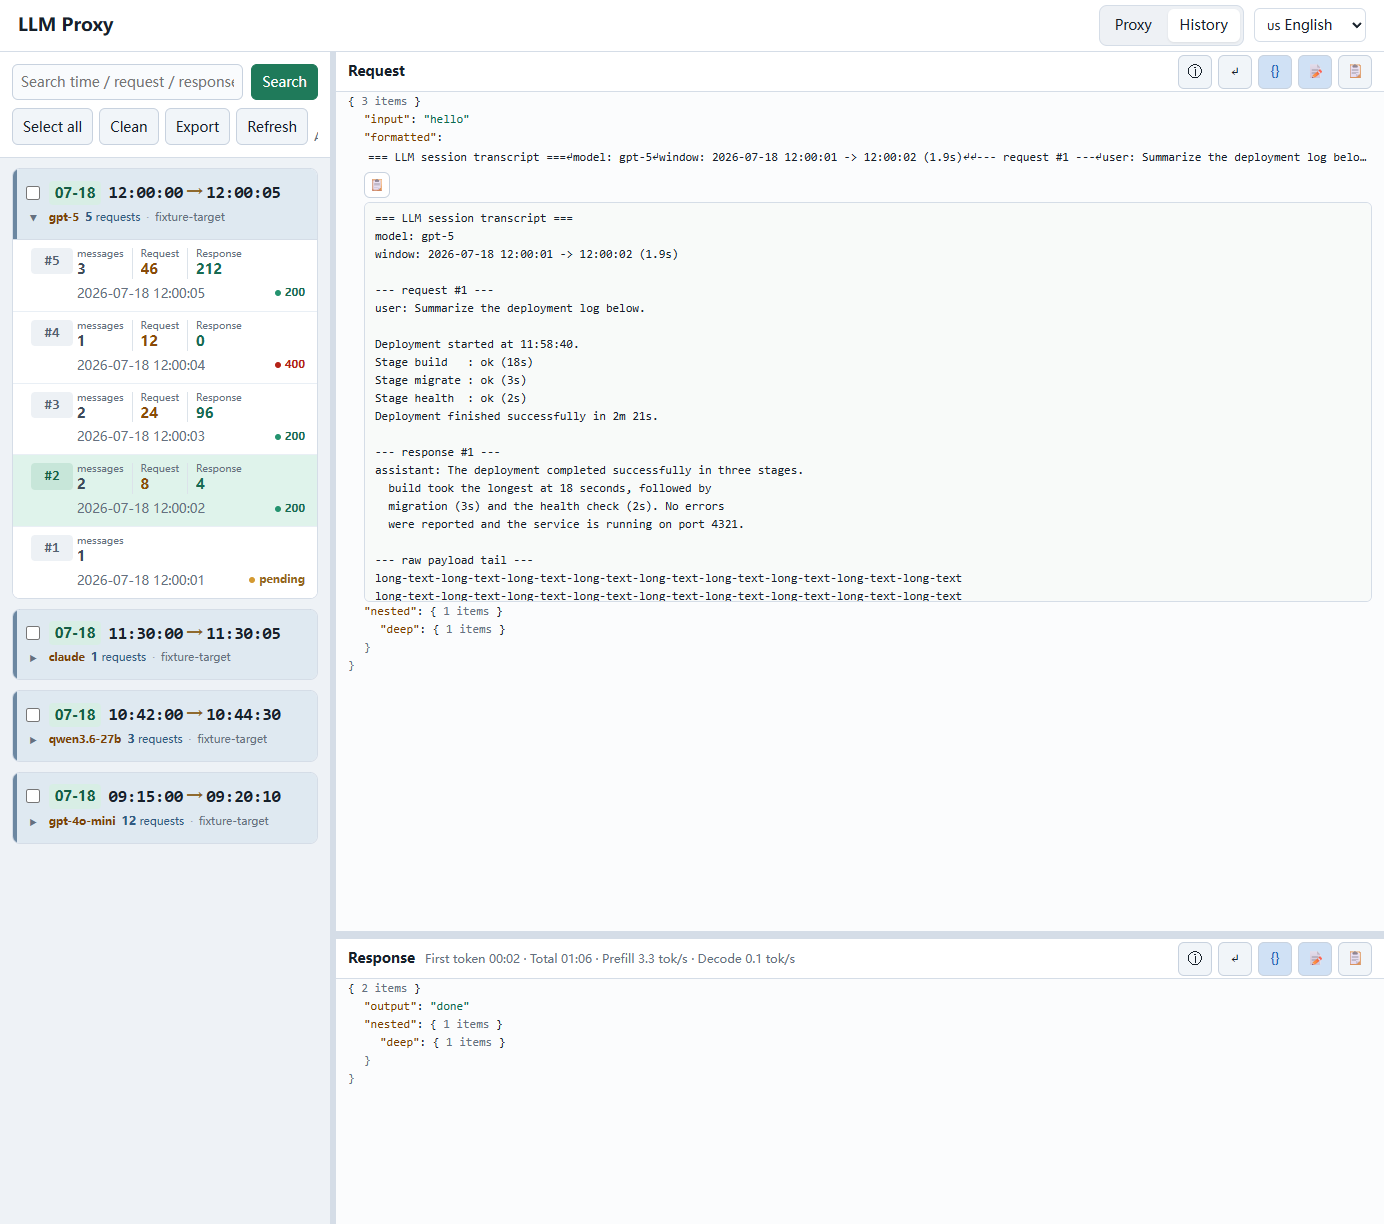
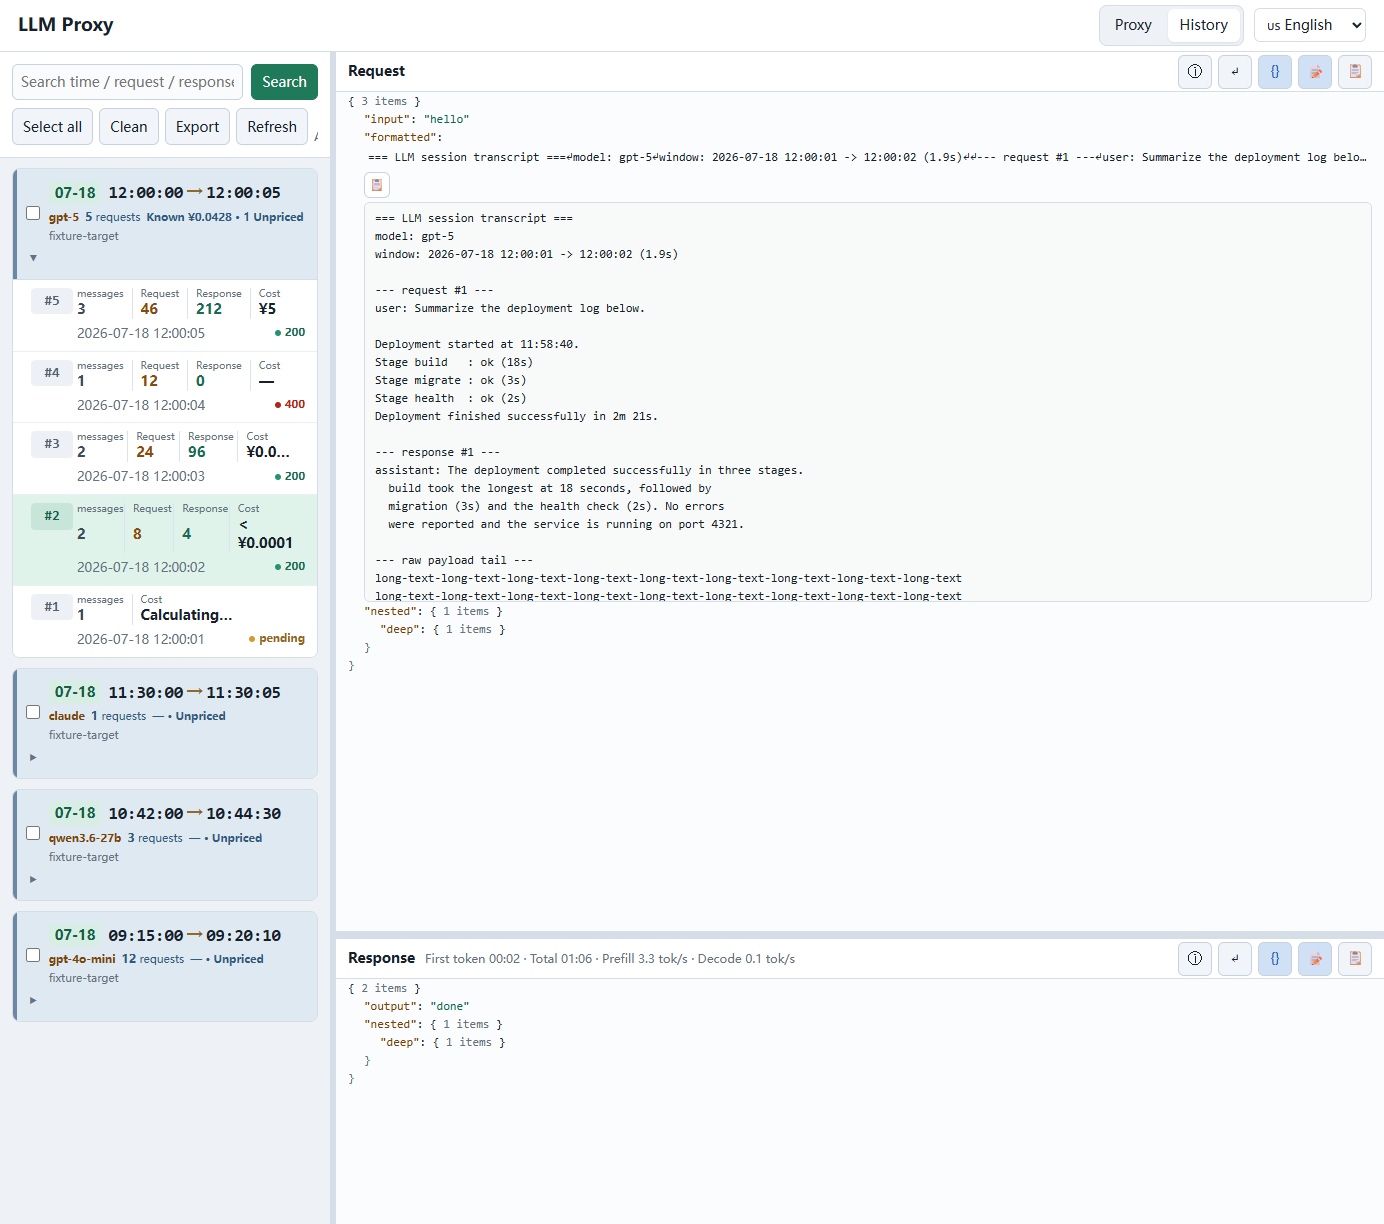
feat(pricing): [PRICE-10] format pricing in history lists

Changed region(s): [[0.0, 0.1552, 0.2486, 0.8382]]

diff --git a/src/admin/static/app.js b/src/admin/static/app.js
@@ -77,6 +77,11 @@ const translations = {
     noModelPrices: "尚未配置模型价格，请求费用将显示为未计价",
     testPriceModel: "测试模型名",
     priceNoMatch: "未命中价格规则",
+    cost: "费用",
+    totalCost: "总费用",
+    knownCost: "已知",
+    calculating: "计算中…",
+    unpriced: "未计价",
     moreTargetOptions: "更多配置",
     lessTargetOptions: "收起配置",
     delete: "删除",
@@ -175,6 +180,11 @@ const translations = {
     noModelPrices: "No model prices configured; request cost will be unpriced",
     testPriceModel: "Test model",
     priceNoMatch: "No price rule matched",
+    cost: "Cost",
+    totalCost: "Total cost",
+    knownCost: "Known",
+    calculating: "Calculating…",
+    unpriced: "Unpriced",
     modelMappings:
       "Model mapping, one per line: listened model => upstream model; * is supported as a wildcard",
     moreTargetOptions: "More settings",
@@ -325,10 +335,42 @@ function logGroupTimeHtml(group) {
 }
 function logGroupFactsHtml(group) {
   return `<span class="log-group-facts">
-    ${group.model ? `<span class="log-model">${escapeHtml(group.model)}</span>` : ""}
-    <span class="log-request-count"><strong>${escapeHtml(group.request_count ?? 0)}</strong> ${escapeHtml(t("requests"))}</span>
-    ${group.target ? `<span class="log-target" title="${escapeHtml(group.target)}">${escapeHtml(group.target)}</span>` : ""}
+    <span class="log-group-fact-line">${group.model ? `<span class="log-model">${escapeHtml(group.model)}</span>` : ""}<span class="log-request-count"><strong>${escapeHtml(group.request_count ?? 0)}</strong> ${escapeHtml(t("requests"))}</span><button type="button" class="log-cost" data-group-cost="${escapeHtml(group.id || "")}">${escapeHtml(formatGroupCost(group.cost))}</button></span>
+    <span class="log-group-fact-line log-target" title="${escapeHtml(group.target || "")}">${escapeHtml(group.target || "—")}</span>
   </span>`;
+}
+function formatCurrencyAmount(amount) {
+  if (amount === null || amount === undefined || amount === "") return "—";
+  const text = String(amount);
+  const [wholeRaw, fractionRaw = ""] = text.split(".");
+  const whole = wholeRaw || "0";
+  const next = (fractionRaw.slice(0, 5) + "00000").slice(0, 5);
+  let rounded = BigInt(whole + next.slice(0, 4)) + BigInt(next[4] >= "5" ? 1 : 0);
+  const scale = 10_000n;
+  const integer = rounded / scale;
+  const fraction = (rounded % scale).toString().padStart(4, "0").replace(/0+$/, "");
+  if (integer === 0n && fraction === "" && !/^0+(?:\.0+)?$/.test(text)) return "< ¥0.0001";
+  return `¥${integer}${fraction ? `.${fraction}` : ""}`;
+}
+function formatRequestCost(cost) {
+  if (!cost || cost.status === "unpriced") return "—";
+  if (cost.status === "pending") return t("calculating");
+  return formatCurrencyAmount(cost.amount);
+}
+function formatGroupCost(cost) {
+  if (!cost) return `— · ${t("unpriced")}`;
+  if (cost.priced_request_count === 0 && cost.pending_request_count > 0) return t("calculating");
+  if (cost.priced_request_count === 0) return `— · ${t("unpriced")}`;
+  const prefix =
+    cost.unpriced_request_count || cost.pending_request_count
+      ? `${t("knownCost")} `
+      : `${t("totalCost")} `;
+  const suffix = cost.unpriced_request_count
+    ? ` · ${cost.unpriced_request_count} ${t("unpriced")}`
+    : cost.pending_request_count
+      ? ` · ${cost.pending_request_count} ${t("pending")}`
+      : "";
+  return `${prefix}${formatCurrencyAmount(cost.known_amount)}${suffix}`;
 }
 function logMetricHtml(className, label, value, title = label) {
   return `<span class="log-metric ${className}" title="${escapeHtml(title)}">
@@ -360,6 +402,7 @@ function logItemMetricsHtml(item) {
       ),
     );
   }
+  metrics.push(logMetricHtml("cost", t("cost"), formatRequestCost(item.cost), t("cost")));
   return (
     metrics.join("") ||
     `<span class="log-item-empty">${escapeHtml(formatStatus(item.status))}</span>`
@@ -859,12 +902,16 @@ function renderLogs() {
       .map(
         (group) => `
     <section class="log-group">
-      <button class="log-group-head" data-group-id="${escapeHtml(group.id || "")}">
+      <div class="log-group-head">
         <input class="log-group-select" type="checkbox" data-select-group="${escapeHtml(group.id || "")}" title="${escapeHtml(t("selectLogGroup"))}" ${state.selectedLogGroups[group.id] ? "checked" : ""}>
-        <span class="log-group-caret">${!state.collapsedGroups[group.id] ? "▸" : "▾"}</span>
-        ${logGroupTimeHtml(group)}
-        ${logGroupFactsHtml(group)}
-      </button>
+        <button type="button" class="log-group-toggle" data-group-id="${escapeHtml(group.id || "")}" aria-expanded="${state.collapsedGroups[group.id] ? "true" : "false"}" aria-label="${escapeHtml(t("task"))}">
+          <span class="log-group-caret" aria-hidden="true">${!state.collapsedGroups[group.id] ? "▸" : "▾"}</span>
+        </button>
+        <div class="log-group-summary">
+          ${logGroupTimeHtml(group)}
+          ${logGroupFactsHtml(group)}
+        </div>
+      </div>
       ${
         !state.collapsedGroups[group.id]
           ? ""

diff --git a/test-node/ui/admin-ui.test.ts b/test-node/ui/admin-ui.test.ts
@@ -149,9 +149,16 @@ beforeAll(async () => {
                 id: "task-one",
                 started_at: "2026-07-18 12:00:00",
                 last_activity_at: "2026-07-18 12:00:05",
-                model: "gpt-5",
-                request_count: 5,
-                target: "fixture-target",
+              model: "gpt-5",
+              request_count: 5,
+              target: "fixture-target",
+              cost: {
+                currency: "CNY" as const,
+                known_amount: "0.042750000",
+                priced_request_count: 3,
+                unpriced_request_count: 1,
+                pending_request_count: 1,
+              },
               },
               {
                 id: "task-needle",
@@ -262,6 +269,7 @@ beforeAll(async () => {
               request_token_count: 46,
               response_token_count: 212,
               target: "fixture-target",
+              cost: { currency: "CNY", amount: "5", status: "priced", reason: null },
             },
             {
               id: "record-four",
@@ -275,6 +283,7 @@ beforeAll(async () => {
               request_token_count: 12,
               response_token_count: 0,
               target: "fixture-target",
+              cost: { currency: "CNY", amount: null, status: "unpriced", reason: "missing_usage" },
             },
             {
               id: "record-three",
@@ -288,6 +297,7 @@ beforeAll(async () => {
               request_token_count: 24,
               response_token_count: 96,
               target: "fixture-target",
+              cost: { currency: "CNY", amount: "0.041125", status: "priced", reason: null },
             },
             {
               id: "record-two",
@@ -301,6 +311,7 @@ beforeAll(async () => {
               request_token_count: 8,
               response_token_count: 4,
               target: "fixture-target",
+              cost: { currency: "CNY", amount: "0.00001", status: "priced", reason: null },
             },
             {
               id: "record-one",
@@ -314,6 +325,7 @@ beforeAll(async () => {
               request_token_count: null,
               response_token_count: null,
               target: "fixture-target",
+              cost: { currency: "CNY", amount: null, status: "pending", reason: null },
             },
           ],
         };
@@ -902,6 +914,56 @@ describe("admin UI history page", { timeout: UI_TEST_TIMEOUT_MS }, () => {
     await expectPage(
       page.locator('[data-log-id="record-one"] .messages .log-metric-value'),
     ).toHaveText("1");
+  });
+
+  it("formats pricing precisely and keeps the two-level history layout compact", async () => {
+    await loadAdminPage();
+    await Promise.all([
+      page.waitForResponse((response) => response.url().includes("/api/logs?")),
+      page.locator('[data-tab="logs"]').click(),
+    ]);
+
+    await expect(
+      page.evaluate((amounts) => {
+        const formatter = (window as unknown as Window & {
+          formatCurrencyAmount: (amount: string | null) => string;
+        }).formatCurrencyAmount;
+        return amounts.map((amount) => formatter(amount));
+      }, ["5", "0.03", "0.041125", "0.042750", "0.00001", "0", null]),
+    ).resolves.toEqual(["¥5", "¥0.03", "¥0.0411", "¥0.0428", "< ¥0.0001", "¥0", "—"]);
+
+    const group = page.locator(".log-group").first();
+    const summary = group.locator(".log-group-summary");
+    await expectPage(summary.locator(".log-group-time")).toHaveCount(1);
+    await expectPage(summary.locator(".log-group-fact-line")).toHaveCount(2);
+    await expectPage(summary.locator(".log-group-fact-line").first()).toContainText(
+      "gpt-5",
+    );
+    await expectPage(summary.locator(".log-group-fact-line").first()).toContainText(
+      "5 requests",
+    );
+    await expectPage(summary.locator("[data-group-cost]")).toHaveText(
+      "Known ¥0.0428 · 1 Unpriced",
+    );
+    await expectPage(summary.locator(".log-target")).toHaveText("fixture-target");
+    await expectPage(group.locator("button button")).toHaveCount(0);
+
+    await Promise.all([
+      page.waitForResponse((response) => response.url().includes("/api/log-groups/task-one/logs")),
+      group.locator('[data-group-id="task-one"]').click(),
+    ]);
+    const priced = page.locator('[data-log-id="record-three"]');
+    await expectPage(priced.locator(".cost .log-metric-label")).toHaveText("Cost");
+    await expectPage(priced.locator(".cost .log-metric-value")).toHaveText("¥0.0411");
+    await expectPage(page.locator('[data-log-id="record-two"] .cost .log-metric-value')).toHaveText(
+      "< ¥0.0001",
+    );
+    await expectPage(page.locator('[data-log-id="record-one"] .cost .log-metric-value')).toHaveText(
+      "Calculating…",
+    );
+    await expectPage(page.locator('[data-log-id="record-four"] .cost .log-metric-value')).toHaveText(
+      "—",
+    );
   });
 
   it("expands search previews without a second request and replaces them on query changes", async () => {

diff --git a/src/admin/static/app.css b/src/admin/static/app.css
@@ -557,8 +557,6 @@ label span {
 }
 .log-group-head {
   width: 100%;
-  border: 0;
-  border-radius: 0;
   padding: 11px 12px;
   background: #dfe9f1;
   display: grid;
@@ -567,7 +565,7 @@ label span {
   text-align: left;
   box-shadow: inset 4px 0 #6b87a1;
 }
-.log-group-head:hover {
+.log-group-head:focus-within {
   background: #d3e0ea;
 }
 .log-group-select {
@@ -579,18 +577,34 @@ label span {
   height: 14px;
   margin: 0;
 }
-.log-group-caret {
+.log-group-toggle {
   grid-column: 1;
   grid-row: 2;
   justify-self: center;
   align-self: center;
+  border: 0;
+  border-radius: 4px;
+  padding: 0;
+  background: transparent;
   color: var(--muted);
+}
+.log-group-toggle:hover {
+  color: var(--ink);
+  background: #c9d8e3;
+}
+.log-group-caret {
+  display: block;
   font-size: 20px;
   line-height: 1;
 }
+.log-group-summary {
+  grid-column: 2;
+  min-width: 0;
+  display: grid;
+  gap: 3px;
+}
 .log-group-time,
 .log-group-facts {
-  grid-column: 2;
   min-width: 0;
 }
 .log-group-time {
@@ -632,13 +646,36 @@ label span {
 }
 .log-group-facts {
   grid-row: 2;
-  display: flex;
-  align-items: baseline;
-  gap: 6px;
+  display: grid;
+  gap: 3px;
   color: var(--muted);
   font-size: 11px;
   white-space: nowrap;
   overflow: hidden;
+}
+.log-group-fact-line {
+  min-width: 0;
+  display: flex;
+  gap: 6px;
+  align-items: baseline;
+  overflow: hidden;
+  white-space: nowrap;
+}
+.log-group-fact-line.log-target {
+  grid-row: 2;
+  display: block;
+}
+.log-cost {
+  min-width: 0;
+  border: 0;
+  background: transparent;
+  padding: 0;
+  color: #315a82;
+  overflow: hidden;
+  text-overflow: ellipsis;
+  white-space: nowrap;
+  font: inherit;
+  font-weight: 700;
 }
 .log-model {
   color: #7a4308;
@@ -657,7 +694,7 @@ label span {
   text-overflow: ellipsis;
 }
 .log-target::before {
-  content: "·";
+  content: none;
   margin-right: 6px;
   color: #9ba6b2;
 }

diff --git a/docs/model-token-pricing-todo.md b/docs/model-token-pricing-todo.md
@@ -1,6 +1,6 @@
 # 模型 token 定价与历史费用开发 TODO
 
-创建日期：2026-09-11。当前进度：9 / 14 项完成。
+创建日期：2026-09-11。当前进度：10 / 14 项完成。
 
 设计依据：[转发地址模型定价与历史费用设计](./model-token-pricing-design.md)。本清单用于后续开发、验收与逐项提交；遇到设计调整，应同步更新设计文档、本清单及测试，不能只改代码。
 
@@ -48,7 +48,7 @@
 | [x] | PRICE-07 | task 总额与费用明细聚合 | PRICE-06 | 完成 |
 | [x] | PRICE-08 | 历史 API、schema 与导出 | PRICE-07 | 完成 |
 | [x] | PRICE-09 | target 价格编辑 UI | PRICE-01、02、08 | 完成 |
-| [ ] | PRICE-10 | 费用格式化与两级列表 UI | PRICE-08、09 | 未开始 |
+| [x] | PRICE-10 | 费用格式化与两级列表 UI | PRICE-08、09 | 完成 |
 | [ ] | PRICE-11 | 请求与 task 费用明细 UI | PRICE-10 | 未开始 |
 | [ ] | PRICE-12 | 自动刷新、异步竞态与任务生命周期 | PRICE-11 | 未开始 |
 | [ ] | PRICE-13 | 端到端、迁移与性能回归 | PRICE-12 | 未开始 |
@@ -409,6 +409,22 @@ UI 基线：不涉及。
 UI 基线：`npm run regen:ui-baselines`；已更新 `doc/ui_*.png` 与 `docs/refactoring/ui-visual-baseline.md`。
 设计偏差与迁移影响：无。
 提交定位：`feat(pricing): [PRICE-09] edit target model prices`。
+补充修复提交：无。
+遗留问题：无。
+
+### PRICE-10
+
+任务 ID：PRICE-10
+状态：完成
+完成日期：2026-09-11
+实现内容与实际文件：历史列表新增共享 CNY 十进制格式化器，最多显示四位小数且保持大额精度；一级任务摘要按日期时间、模型/请求数/费用、转发地址三行显示，费用为独立可聚焦入口。二级记录保持原有标签在上、值在下的指标结构，仅增加费用列；展开控件、选择框和费用入口均为独立元素，不产生嵌套交互控件。
+测试映射：P10-01～P10-03 → `test-node/ui/admin-ui.test.ts` 的浏览器格式化、一级三行、无嵌套按钮和二级费用列用例；现有中英文视觉回归覆盖普通列表、预览和展开记录。P10-04 → 同文件窄屏/历史布局视觉回归。
+验证命令与结果：`npm run typecheck` 通过；`npx vitest run test-node/ui/admin-ui.test.ts -t "formats pricing" --reporter=dot` 通过（1 个测试）；`npm run regen:ui-baselines` 通过（4 个中英文基线测试）。
+验收结论：通过；未知、进行中、零和部分已知金额均有明确显示，且费用文本不会将缺价误显示为免费。
+文档更新：TODO 执行记录、UI 基线哈希。
+UI 基线：`npm run regen:ui-baselines`；已更新 `doc/ui_logs_cn.png`、`doc/ui_logs_en.png` 与 `docs/refactoring/ui-visual-baseline.md`。
+设计偏差与迁移影响：无。
+提交定位：`feat(pricing): [PRICE-10] format pricing in history lists`。
 补充修复提交：无。
 遗留问题：无。
 

diff --git a/docs/refactoring/ui-visual-baseline.md b/docs/refactoring/ui-visual-baseline.md
@@ -12,8 +12,8 @@
 | --- | --- | --- | --- | --- |
[6 lines of base64/hex data omitted]
 
 哈希复现命令：
 
